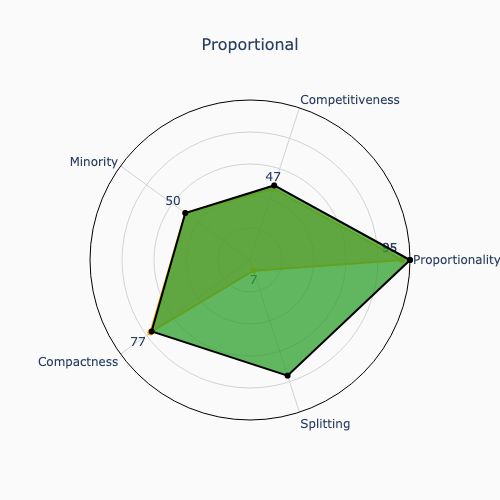
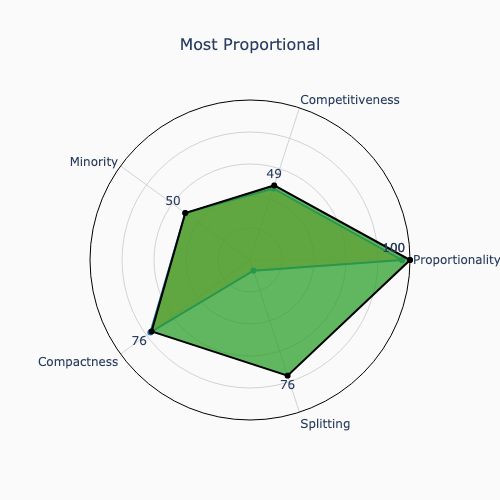
Radar tweaks

diff --git a/scripts/plot_radar_diagram.py b/scripts/plot_radar_diagram.py
@@ -93,6 +93,18 @@ def text_position(ratings: list[int], move_value: int) -> list[str]:
     return positions
 
 
+def make_title(label: str) -> str:
+    if label == "Official":
+        return label
+    if label == "Splitting":
+        return f"Least {label}"
+    if label in ["Proportional", "Competitive", "Compact"]:
+        return f"Most {label}"
+    if label == "Minority":
+        return f"Best {label} Representation"
+    raise ValueError(f"Unknown map label: {label}")
+
+
 current_name: str = f"{xx}{yy} {type} {current_subtype}"
 compare_name: str = f"{xx}{yy} {type} {compare_subtype}"
 
@@ -138,6 +150,7 @@ def plot_radar_diagram(current: Plan, compare: Plan) -> None:
 
     current_r: list[int] = [x for x in current["ratings"].values()]
     current_r += current_r[:1]  # close the polygon
+    current_positions: list[str] = text_position(current_r, 80)
 
     current_trace: py.Scatterpolar = go.Scatterpolar(
         name=current["name"],
@@ -145,7 +158,8 @@ def plot_radar_diagram(current: Plan, compare: Plan) -> None:
         r=current_r,
         theta=theta,
         fill="toself",
-        text="",  # Suppress the current ratings
+        text=current_r,
+        textposition=current_positions,
         fillcolor="rgba(44, 160, 44, 0.75)",
         marker=dict(color="black"),
         line=dict(color="black"),
@@ -154,7 +168,7 @@ def plot_radar_diagram(current: Plan, compare: Plan) -> None:
     # Compare trace
 
     compare_r: list[int] = [x for x in compare["ratings"].values()]
-    compare_r += compare_r[:1]
+    compare_r += compare_r[:1]  # close the polygon
     compare_positions: list[str] = text_position(compare_r, 80)
 
     compare_trace: py.Scatterpolar = go.Scatterpolar(
@@ -162,18 +176,18 @@ def plot_radar_diagram(current: Plan, compare: Plan) -> None:
         mode="lines+markers+text",
         r=compare_r,
         theta=theta,
-        text=compare_r,
-        textposition=compare_positions,
+        text="",  # Suppress the ratings -- compare_r,
+        # textposition=compare_positions,
         fill="toself",
         fillcolor="rgba(255, 127, 14, 0.5)",
-        marker=dict(color="orange"),
-        line=dict(color="orange"),
+        marker=dict(color="#1f77b4"),
+        line=dict(color="#1f77b4"),
     )
 
     traces.append(compare_trace)
     traces.append(current_trace)
 
-    title: str = current["nickname"]
+    title: str = make_title(current["nickname"])
     font_size: int = 16
     title_x: float = 0.5  # center
 

diff --git a/scripts/gen_pull_ratings_script.py b/scripts/gen_pull_ratings_script.py
@@ -24,5 +24,6 @@ for xx, maps in notables_copy.items():
     for dim, id in maps.items():
         print_command(xx, dim.capitalize(), id)
 
-for xx, id in baseline_maps.items():
-    print_command(xx, "Baseline", id)
+# Do this a state at a time as baseline maps are completed
+# for xx, id in baseline_maps.items():
+#     print_command(xx, "Baseline", id)
